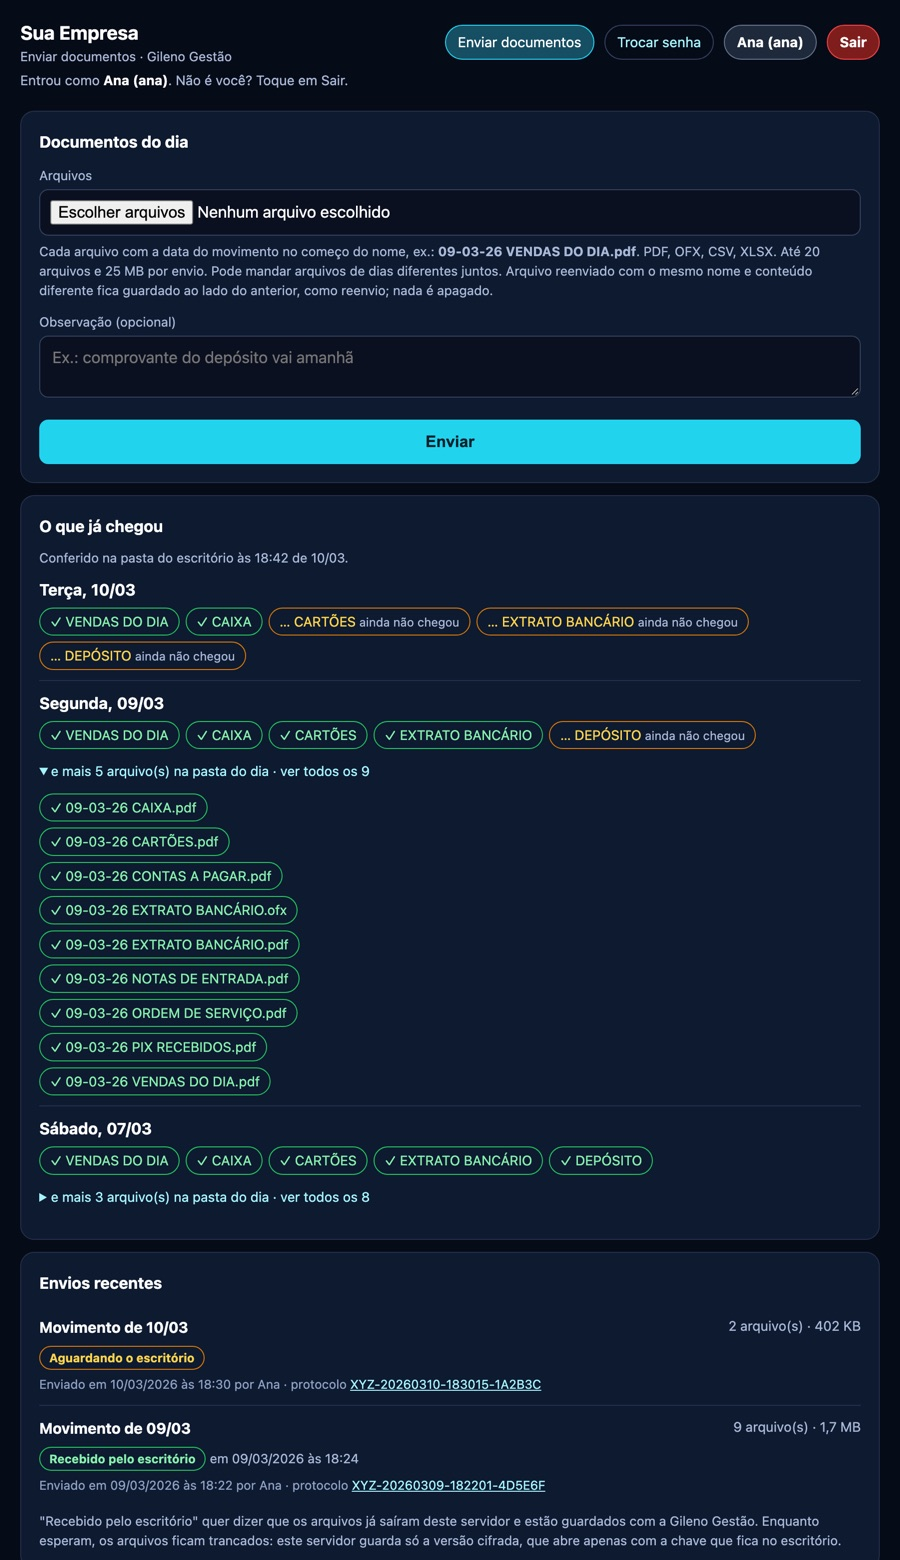
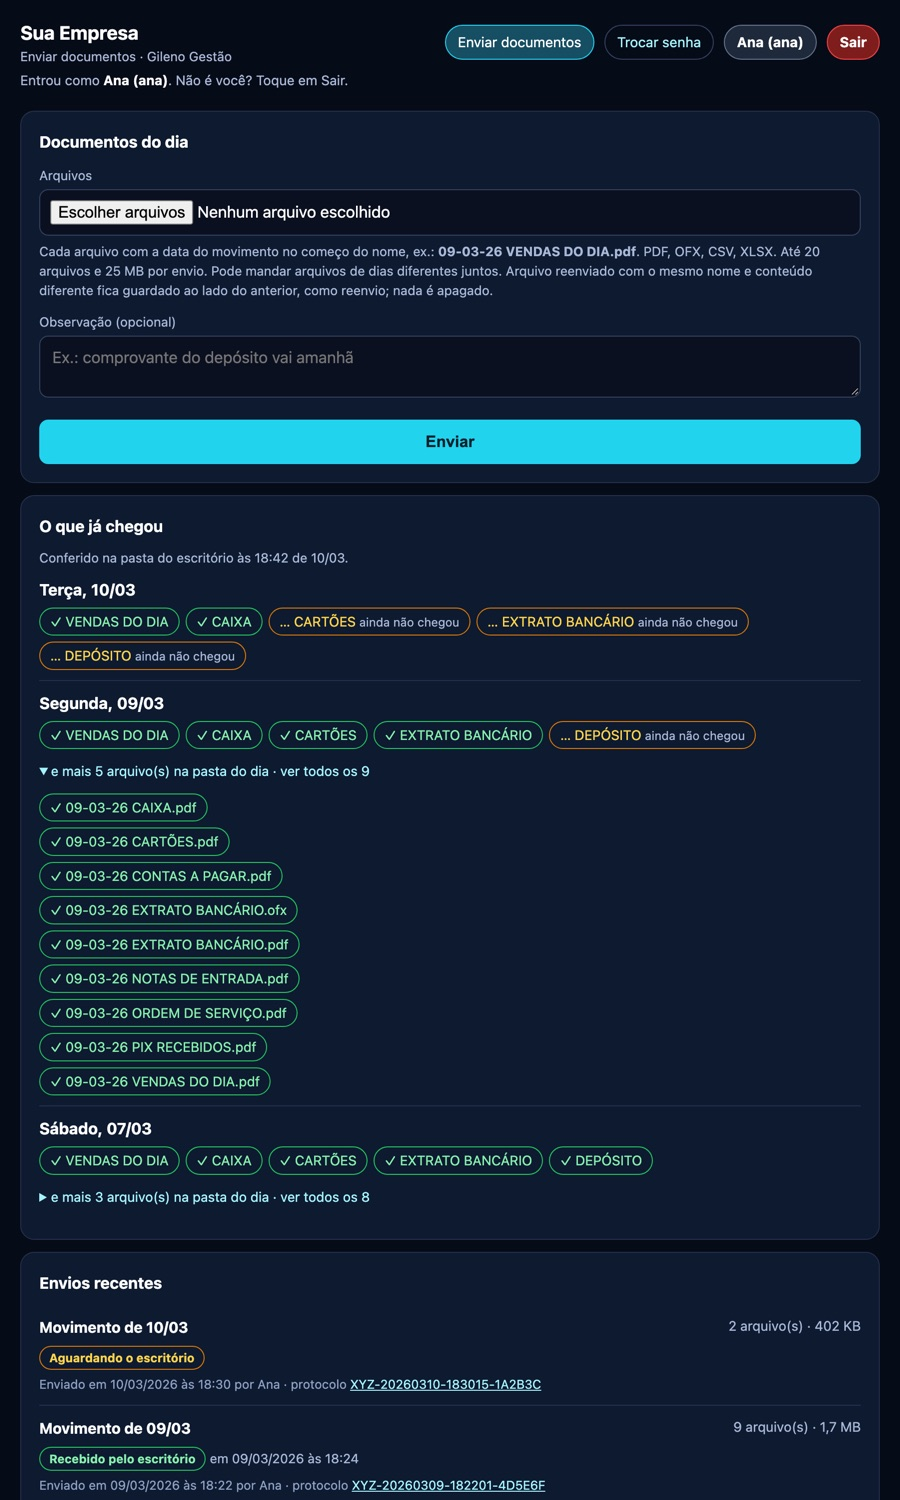
Portal: curas do auditor (marcador do calendário fora da seção, pergunta diz até quando fica trancado, imagem sem a nota do rodapé, 3 frases mais exatas)

diff --git a/index.html b/index.html
@@ -191,19 +191,18 @@
       </div>
     </section>
 
-<!-- CAL-COM:INICIO -->
     <section id="portal">
       <div class="container">
         <div class="titulo-secao revelar">
           <span class="etiqueta">Portal de documentos</span>
           <h2>Os relatórios chegam por um portal, não por grupo de mensagem</h2>
-          <p>Cada pessoa da equipe tem o próprio acesso para enviar os relatórios do dia, pelo celular ou pelo computador, e vê na hora o que já chegou e o que ainda falta.</p>
+          <p>Cada pessoa da equipe tem o próprio acesso para enviar os relatórios do dia, pelo celular ou pelo computador, e acompanha o que já chegou e o que ainda falta.</p>
         </div>
         <div class="portal-doc">
-          <figure class="portal-tela revelar"><a class="moldura" href="img/portal-documentos.jpg" target="_blank" rel="noopener" aria-label="Ampliar a tela do portal"><img src="img/portal-documentos.jpg" width="900" height="1560" loading="lazy" alt="Tela do portal de documentos, com dados fictícios"></a>
-            <figcaption>Reprodução da tela do portal, com dados fictícios. Toque para ampliar.</figcaption></figure>
+          <figure class="portal-tela revelar"><a class="moldura" href="img/portal-documentos.jpg" target="_blank" rel="noopener" aria-label="Ampliar a tela do portal"><img src="img/portal-documentos.jpg" width="900" height="1500" loading="lazy" alt="Tela do portal de documentos, com dados fictícios"></a>
+            <figcaption>Reprodução da tela do portal, com dados fictícios. Toque ou clique para ampliar.</figcaption></figure>
           <div class="portal-itens">
-            <div class="cuidado revelar"><i class="ri-user-follow-line"></i><h3>Login de cada pessoa</h3><p>Usuário e senha próprios para cada pessoa da equipe. A senha provisória é trocada no primeiro acesso, e o portal se fecha sozinho depois de alguns minutos sem uso, o que protege o computador que mais de uma pessoa usa.</p></div>
+            <div class="cuidado revelar"><i class="ri-user-follow-line"></i><h3>Login de cada pessoa</h3><p>Usuário e senha próprios para cada pessoa da equipe. A senha provisória é trocada no primeiro acesso, e o portal se fecha sozinho depois de alguns minutos sem uso, o que ajuda a proteger o computador que mais de uma pessoa usa.</p></div>
             <div class="cuidado revelar"><i class="ri-lock-password-line"></i><h3>Arquivos trancados na espera</h3><p>Antes de serem gravados no servidor, os arquivos são trancados com criptografia e ficam assim até o escritório buscar. Só a chave que fica no escritório abre.</p></div>
             <div class="cuidado revelar"><i class="ri-checkbox-multiple-line"></i><h3>O que chegou e o que falta</h3><p>Dia a dia, em verde o que já chegou e em amarelo o que ainda falta. Um toque mostra todos os arquivos da pasta do dia.</p></div>
             <div class="cuidado revelar"><i class="ri-file-list-3-line"></i><h3>Registro de cada envio</h3><p>Cada envio gera um protocolo com quem enviou, quando e quantos arquivos, e o recibo mostra quando o escritório recebeu. Aceita PDF, planilha e extrato bancário, de vários dias de uma vez.</p></div>
@@ -212,6 +211,7 @@
       </div>
     </section>
 
+<!-- CAL-COM:INICIO -->
     <section id="calendario" class="cal-com">
       <div class="container">
         <div class="titulo-secao revelar"><span class="etiqueta">O ano do comércio</span><h2>As datas que movimentam o seu caixa</h2>
@@ -364,7 +364,7 @@
           </details>
           <details>
             <summary>Como os relatórios chegam até vocês?</summary>
-            <p>Pelo portal de documentos da sua empresa. Cada pessoa da equipe tem usuário e senha próprios, anexa os relatórios do dia pelo celular ou pelo computador e confere o que já chegou e o que falta. Antes de serem gravados no servidor, os arquivos são trancados com criptografia e só abrem com a chave que fica no escritório.</p>
+            <p>Pelo portal de documentos da sua empresa. Cada pessoa da equipe tem usuário e senha próprios, anexa os relatórios do dia pelo celular ou pelo computador e confere o que já chegou e o que falta. Enquanto esperam o escritório buscar, os arquivos ficam no servidor trancados com criptografia, e só a chave que fica no escritório abre essa cópia.</p>
           </details>
           <details>
             <summary>A Gileno Gestão substitui o meu contador?</summary>
